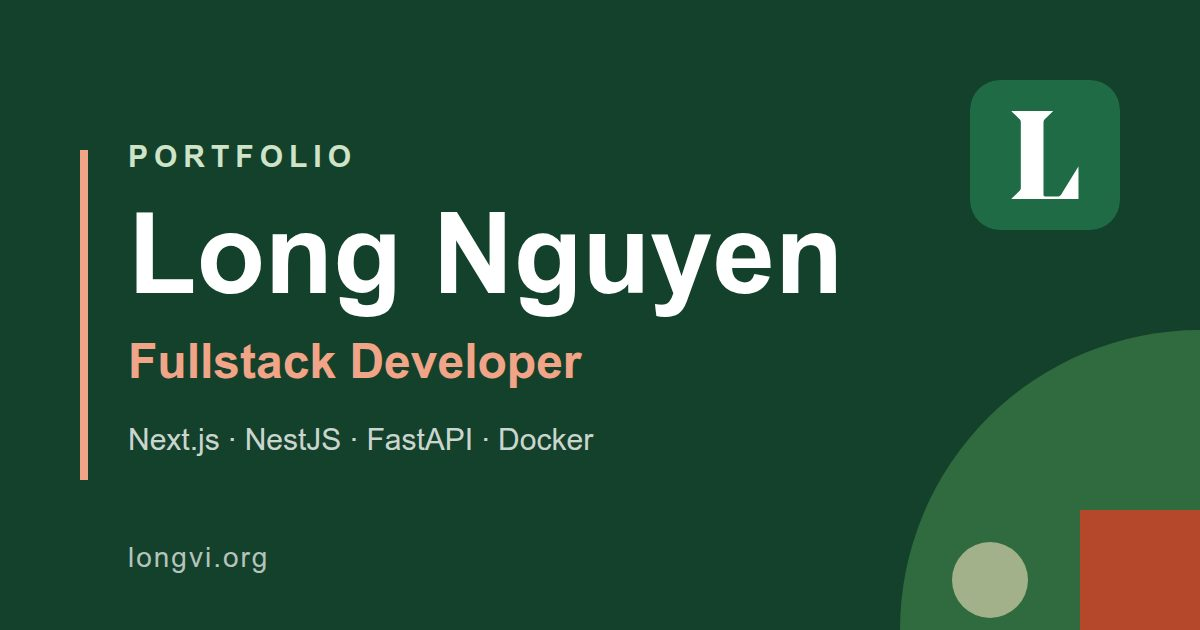
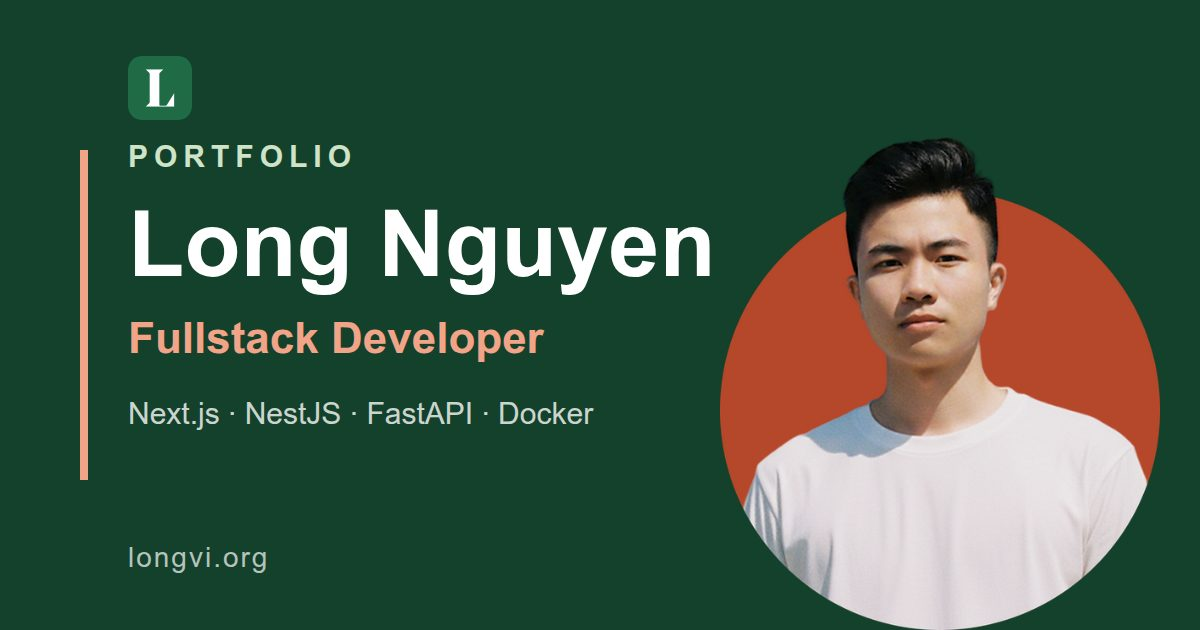
refactor(portfolio): remove geometric mosaic decoration
The mosaic motif too closely resembles the Thang Long University site. Hero now shows only the portrait, contact drops its side graphic, project cards render an optional thumbnail (none yet), and the social preview image is redrawn with the portrait.

diff --git a/src/features/portfolio/components/hero-section.tsx b/src/features/portfolio/components/hero-section.tsx
@@ -1,13 +1,11 @@
 import Image from "next/image";
 import type { CSSProperties } from "react";
-import GeometricMosaic from "@/features/portfolio/components/geometric-mosaic";
 import SectionLink from "@/features/portfolio/components/section-link";
 import { PROFILE } from "@/features/portfolio/constants/profile.constants";
 import type { PortfolioContent } from "@/features/portfolio/types/portfolio.types";
 import type { Locale } from "@/shared/constants/i18n.constants";
 
-// Hero một mình trên màn hình đầu tiên. Bên phải là ảnh chân dung (đã có sẵn vòng tròn nền, đầu nhô ra khỏi vòng)
-// đặt đè lên khối hình học theo brand.
+// Hero một mình trên màn hình đầu tiên. Bên phải là ảnh chân dung (đã có sẵn vòng tròn nền, đầu nhô ra khỏi vòng).
 export default function HeroSection({
     locale,
     content,
@@ -87,20 +85,15 @@ export default function HeroSection({
                     </div>
                 </div>
 
-                <div className="hero-drift relative mx-auto aspect-square w-full max-w-md lg:max-w-none">
-                    <GeometricMosaic
-                        variant="hero"
-                        rows={4}
-                        className="absolute right-0 top-0 aspect-square w-[72%]"
-                    />
+                <div className="hero-drift mx-auto w-full max-w-md lg:max-w-lg">
                     <Image
                         src={PROFILE.portrait.src}
                         alt={hero.photoAlt}
                         width={PROFILE.portrait.width}
                         height={PROFILE.portrait.height}
                         priority
-                        sizes="(min-width: 1024px) 400px, 80vw"
-                        className="absolute bottom-0 left-0 h-auto w-[78%]"
+                        sizes="(min-width: 1024px) 512px, 90vw"
+                        className="h-auto w-full"
                     />
                 </div>
             </div>

diff --git a/src/features/portfolio/components/project-card.tsx b/src/features/portfolio/components/project-card.tsx
@@ -1,4 +1,4 @@
-import GeometricMosaic from "@/features/portfolio/components/geometric-mosaic";
+import Image from "next/image";
 import ProjectLinks from "@/features/portfolio/components/project-links";
 import type { ProjectConfig } from "@/features/portfolio/constants/profile.constants";
 import type {
@@ -6,7 +6,7 @@ import type {
     ProjectText,
 } from "@/features/portfolio/types/portfolio.types";
 
-// Thẻ project: hình khối riêng (không cần ảnh chụp), tên, thời gian, mô tả, số thành viên và vai trò, công nghệ, liên kết.
+// Thẻ project: ảnh đại diện (nếu có), tên, thời gian, mô tả, số thành viên và vai trò, công nghệ, liên kết.
 // Phần nào chưa có dữ liệu (mô tả, thời gian) thì bỏ qua, không bịa nội dung.
 export default function ProjectCard({
     config,
@@ -19,13 +19,18 @@ export default function ProjectCard({
 }) {
     return (
         <article className="card-lift flex h-full flex-col border border-border-main bg-surface">
-            <div className="relative aspect-[2/1] overflow-hidden bg-bg-main">
-                <GeometricMosaic
-                    variant={config.mosaic}
-                    rows={2}
-                    className="absolute inset-0 h-full w-full"
-                />
-            </div>
+            {config.thumbnail === null ? null : (
+                <div className="relative aspect-[2/1] overflow-hidden bg-muted">
+                    <Image
+                        src={config.thumbnail.src}
+                        alt={text.name}
+                        width={config.thumbnail.width}
+                        height={config.thumbnail.height}
+                        sizes="(min-width: 768px) 560px, 100vw"
+                        className="size-full object-cover"
+                    />
+                </div>
+            )}
 
             <div className="flex flex-1 flex-col gap-5 p-6 lg:p-8">
                 <div className="space-y-3">

diff --git a/src/features/portfolio/constants/profile.constants.ts b/src/features/portfolio/constants/profile.constants.ts
@@ -1,7 +1,6 @@
 import type {
     ContactChannelFacts,
     ExperienceCompany,
-    MosaicVariant,
     NeutralSkillGroupId,
     ProjectLink,
     ProjectSlug,
@@ -162,7 +161,8 @@ export interface ProjectConfig {
     endedAt: string | null;
     links: readonly ProjectLink[];
     tech: readonly string[];
-    mosaic: MosaicVariant;
+    // Ảnh đại diện của dự án (đặt trong public/images/projects); null nghĩa là chưa có, thẻ dự án bỏ phần ảnh.
+    thumbnail: { src: string; width: number; height: number } | null;
 }
 
 // Thứ tự hiển thị do người dùng chốt (mới nhất trước).
@@ -195,7 +195,7 @@ export const PROJECTS: readonly ProjectConfig[] = [
             "Docker Compose",
             "Claude Max",
         ],
-        mosaic: "alpha",
+        thumbnail: null,
     },
     {
         slug: "vinfastreev",
@@ -214,7 +214,7 @@ export const PROJECTS: readonly ProjectConfig[] = [
             "Better Stack",
             "Telegram Bot",
         ],
-        mosaic: "beta",
+        thumbnail: null,
     },
     {
         slug: "affiliate-product-catalog",
@@ -236,7 +236,7 @@ export const PROJECTS: readonly ProjectConfig[] = [
             "Docker",
             "Cloudflare Tunnel",
         ],
-        mosaic: "gamma",
+        thumbnail: null,
     },
     {
         slug: "city-incidents-management-system",
@@ -259,7 +259,7 @@ export const PROJECTS: readonly ProjectConfig[] = [
             "WebSocket",
             "JWT",
         ],
-        mosaic: "hero",
+        thumbnail: null,
     },
 ];
 

diff --git a/src/features/portfolio/components/contact-section.tsx b/src/features/portfolio/components/contact-section.tsx
@@ -1,5 +1,4 @@
 import ContactChannelCard from "@/features/portfolio/components/contact-channel-card";
-import GeometricMosaic from "@/features/portfolio/components/geometric-mosaic";
 import { CONTACT_CHANNELS } from "@/features/portfolio/constants/profile.constants";
 import { REVEAL_DELAY_CLASSES } from "@/features/portfolio/constants/reveal.constants";
 import type { PortfolioContent } from "@/features/portfolio/types/portfolio.types";
@@ -13,8 +12,8 @@ export default function ContactSection({ content }: { content: PortfolioContent 
             aria-labelledby="contact-title"
             className="bg-band py-20 text-white lg:py-28"
         >
-            <div className="site-container grid items-start gap-12 lg:grid-cols-[1.4fr_0.6fr]">
-                <div>
+            <div className="site-container">
+                <div className="max-w-4xl">
                     <div className="reveal reveal-left">
                         <div className="mb-8 flex items-stretch gap-4">
                             <span
@@ -50,12 +49,6 @@ export default function ContactSection({ content }: { content: PortfolioContent 
                         ))}
                     </ul>
                 </div>
-
-                <GeometricMosaic
-                    variant="gamma"
-                    rows={4}
-                    className="reveal reveal-pop reveal-d1 mx-auto hidden aspect-square w-full max-w-xs lg:block"
-                />
             </div>
         </section>
     );

diff --git a/src/app/globals.css b/src/app/globals.css
@@ -334,35 +334,16 @@
     }
 }
 
-@keyframes tile-in {
-    from {
-        opacity: 0;
-        transform: scale(0.6);
-    }
-    to {
-        opacity: 1;
-        transform: none;
-    }
-}
-
 [data-enter] {
     animation: rise-in 700ms cubic-bezier(0.2, 0.7, 0.2, 1) both;
     animation-delay: calc(var(--enter-index, 0) * 90ms);
-}
-
-.mosaic-tile {
-    transform-box: fill-box;
-    transform-origin: center;
-    animation: tile-in 600ms cubic-bezier(0.2, 0.7, 0.2, 1) both;
-    animation-delay: calc(var(--tile-index, 0) * 45ms + 150ms);
 }
 
 @media (prefers-reduced-motion: reduce) {
     html {
         scroll-behavior: auto;
     }
-    [data-enter],
-    .mosaic-tile {
+    [data-enter] {
         animation: none;
     }
     .btn,

diff --git a/src/features/portfolio/types/portfolio.types.ts b/src/features/portfolio/types/portfolio.types.ts
@@ -47,9 +47,6 @@ export interface ProjectLink {
     url: string;
 }
 
-// Biến thể bố cục của khối hình học trang trí (không dùng ảnh cá nhân).
-export type MosaicVariant = "hero" | "alpha" | "beta" | "gamma";
-
 export interface Fact {
     value: string;
     label: string;

diff --git a/workspace/features/001-portfolio-redesign/design.md b/workspace/features/001-portfolio-redesign/design.md
@@ -9,7 +9,7 @@
 | Khối số liệu: ảnh trái, panel indigo phải, số lớn có đơn vị nhỏ | `education-section` |
 | Thẻ chương trình trên nền indigo, nhãn nhỏ + tiêu đề + "Xem thêm" đỏ | `skills-section` |
 | Nút đỏ vuông (không bo), padding 12×32, chữ đậm | `.btn-primary` |
-| Khối hình học (phần tư đường tròn, tam giác, vuông) indigo/xanh/đỏ | `geometric-mosaic` (hero, project, contact) |
+| ~~Khối hình học~~ đã bỏ (quá giống trang của trường); hero dùng ảnh chân dung, thẻ project chờ ảnh đại diện | `hero-section`, `project-card` |
 | Nền trắng ngà `#F5F5F7`, chữ đen/indigo | token `--bg-main` |
 
 Bản vẽ khối hình học là tự dựng, lấy cảm hứng từ ngôn ngữ hình học của brand, không dùng tài nguyên đồ họa của trường.
@@ -22,7 +22,7 @@ app/
   [locale]/          layout (html lang={locale}), page, education|experience|projects (route cũ), projects/[slug]
   sitemap.ts, robots.ts, llms.txt/route.ts
 features/portfolio/
-  components/        server: *-section, section-heading, geometric-mosaic, ...
+  components/        server: *-section, section-heading, ...
                      client: site-nav, locale-switcher, initial-section-scroller, mermaid-diagram
   constants/         sections, profile (dữ kiện không phụ thuộc ngôn ngữ), content-vi, content-en
   hooks/             use-scroll-spy
